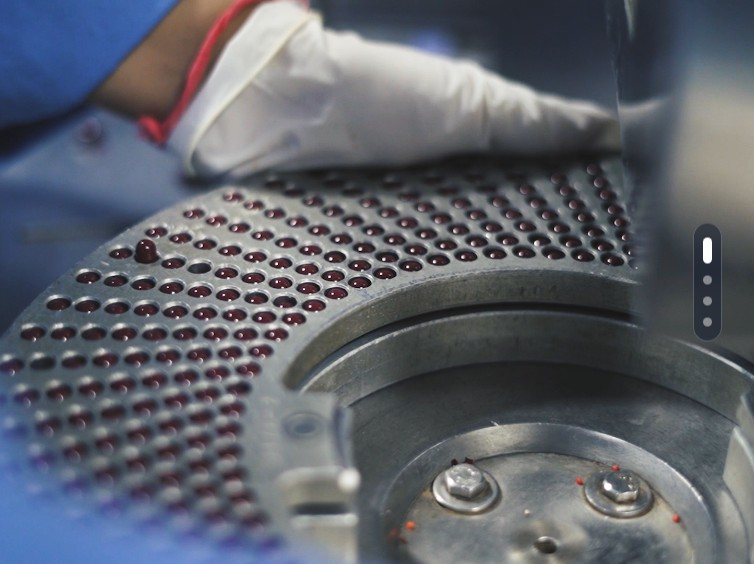
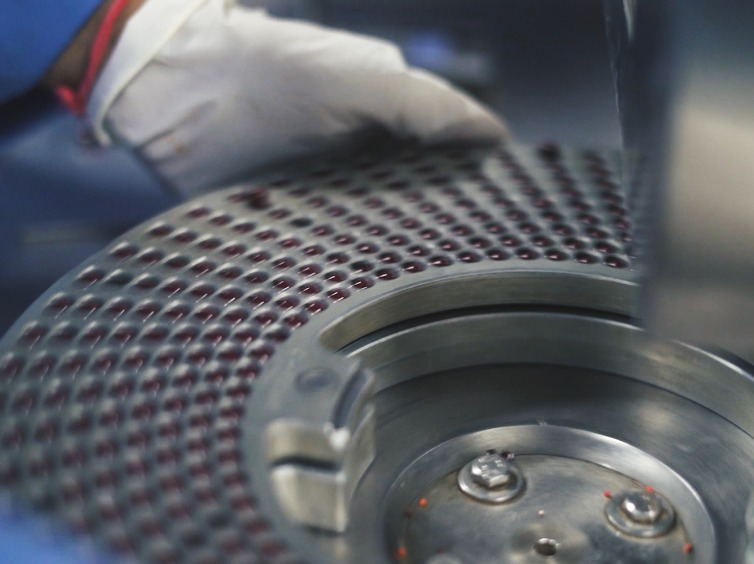
first commit

diff --git a/index.html b/index.html
@@ -2483,66 +2483,8 @@
           <!-- ================= Part 1: Text Column (Slides Downwards) ================= -->
           <div class="split-hero__text-col" id="heroTextCol">
 
-            <!-- Scene 1: Gelatin -->
+            <!-- Scene 1: HPMC Vegetarian Capsules -->
             <article class="split-hero__pane is-active" data-scene="0">
-              <div class="split-hero__meta">
-                <span>EMPTY CAPSULES</span>
-                <span class="meta-dot"></span>
-                <span>TSE/BSE FREE</span>
-                <span class="meta-dot"></span>
-                <span>EDQM DMF</span>
-                <span class="meta-dot"></span>
-                <span>WHO-cGMP</span>
-              </div>
-              <h2 class="split-hero__title">
-                HPMC / Veg Capsules
-              </h2>
-              <p class="split-hero__desc">
-                Naturally derived Hypromellose capsules tailored for moisture-sensitive APIs, herbal formulations,
-                hygroscopic powders, and global clean-label nutraceutical brands.
-              </p>
-              <div class="split-hero__actions">
-                <a class="btn-black-pill" href="#manufacturingSection">
-                  <span class="btn-anim__text">
-                    <span class="btn-anim__text-track">
-                      <span class="btn-anim__text-item">KNOW MORE</span>
-                      <span class="btn-anim__text-item btn-anim__text-clone" aria-hidden="true">KNOW MORE</span>
-                    </span>
-                  </span>
-                  <span class="btn-anim__icon">
-                    <span class="btn-anim__icon-track">
-                      <svg class="btn-anim__icon-item" width="12" height="12" viewBox="0 0 12 12" fill="none"
-                        stroke="currentColor" stroke-width="2.4" stroke-linecap="round" stroke-linejoin="round"
-                        aria-hidden="true">
-                        <path d="M4 2L8 6L4 10" />
-                      </svg>
-                      <svg class="btn-anim__icon-item btn-anim__icon-clone" width="12" height="12" viewBox="0 0 12 12"
-                        fill="none" stroke="currentColor" stroke-width="2.4" stroke-linecap="round"
-                        stroke-linejoin="round" aria-hidden="true">
-                        <path d="M4 2L8 6L4 10" />
-                      </svg>
-                    </span>
-                  </span>
-                </a>
-                <!-- <a class="btn-outline-pill" href="epl-products.html">
-                  <span class="btn-anim__text">
-                    <span class="btn-anim__text-track">
-                      <span class="btn-anim__text-item">View Gelatin Specs</span>
-                      <span class="btn-anim__text-item btn-anim__text-clone" aria-hidden="true">View Gelatin Specs</span>
-                    </span>
-                  </span>
-                  <span class="btn-anim__icon">
-                    <span class="btn-anim__icon-track">
-                      <svg class="btn-anim__icon-item" width="12" height="12" viewBox="0 0 12 12" fill="none" stroke="currentColor" stroke-width="2.4" stroke-linecap="round" stroke-linejoin="round" aria-hidden="true"><path d="M4 2L8 6L4 10"/></svg>
-                      <svg class="btn-anim__icon-item btn-anim__icon-clone" width="12" height="12" viewBox="0 0 12 12" fill="none" stroke="currentColor" stroke-width="2.4" stroke-linecap="round" stroke-linejoin="round" aria-hidden="true"><path d="M4 2L8 6L4 10"/></svg>
-                    </span>
-                  </span>
-                </a> -->
-              </div>
-            </article>
-
-            <!-- Scene 2: HPMC -->
-            <article class="split-hero__pane is-upcoming" data-scene="1">
               <div class="split-hero__meta">
                 <span>PLANT-DERIVED</span>
                 <span class="meta-dot"></span>
@@ -2553,13 +2495,12 @@
                 <span>HALAL &amp; KOSHER</span>
               </div>
               <h1 class="split-hero__title">
-                Empty Hard Gelatin Capsules
+                HPMC / Veg Capsules
               </h1>
               <p class="split-hero__desc">
-                High-quality TSE/BSE-free Gelatin capsules engineered for high-speed automated filling machines,
-                delivering minimal rejections, tight locking tolerances, and maximum pharmaceutical output.
+                Naturally derived Hypromellose capsules tailored for moisture-sensitive APIs, herbal formulations,
+                hygroscopic powders, and global clean-label nutraceutical brands.
               </p>
-
               <div class="split-hero__actions">
                 <a class="btn-black-pill" href="epl-products.html">
                   <span class="btn-anim__text">
@@ -2583,20 +2524,51 @@
                     </span>
                   </span>
                 </a>
-                <!-- <a class="btn-outline-pill" href="#manufacturingSection">
+              </div>
+            </article>
+
+            <!-- Scene 2: Empty Hard Gelatin Capsules -->
+            <article class="split-hero__pane is-upcoming" data-scene="1">
+              <div class="split-hero__meta">
+                <span>EMPTY CAPSULES</span>
+                <span class="meta-dot"></span>
+                <span>TSE/BSE FREE</span>
+                <span class="meta-dot"></span>
+                <span>EDQM DMF</span>
+                <span class="meta-dot"></span>
+                <span>WHO-cGMP</span>
+              </div>
+              <h2 class="split-hero__title">
+                Empty Hard Gelatin Capsules
+              </h2>
+              <p class="split-hero__desc">
+                High-quality TSE/BSE-free Gelatin capsules engineered for high-speed automated filling machines,
+                delivering minimal rejections, tight locking tolerances, and maximum pharmaceutical output.
+              </p>
+
+              <div class="split-hero__actions">
+                <a class="btn-black-pill" href="epl-products.html">
                   <span class="btn-anim__text">
                     <span class="btn-anim__text-track">
-                      <span class="btn-anim__text-item">Why Choose Us</span>
-                      <span class="btn-anim__text-item btn-anim__text-clone" aria-hidden="true">Why Choose Us</span>
+                      <span class="btn-anim__text-item">EXPLORE GELATIN</span>
+                      <span class="btn-anim__text-item btn-anim__text-clone" aria-hidden="true">EXPLORE GELATIN</span>
                     </span>
                   </span>
                   <span class="btn-anim__icon">
                     <span class="btn-anim__icon-track">
-                      <svg class="btn-anim__icon-item" width="12" height="12" viewBox="0 0 12 12" fill="none" stroke="currentColor" stroke-width="2.4" stroke-linecap="round" stroke-linejoin="round" aria-hidden="true"><path d="M4 2L8 6L4 10"/></svg>
-                      <svg class="btn-anim__icon-item btn-anim__icon-clone" width="12" height="12" viewBox="0 0 12 12" fill="none" stroke="currentColor" stroke-width="2.4" stroke-linecap="round" stroke-linejoin="round" aria-hidden="true"><path d="M4 2L8 6L4 10"/></svg>
+                      <svg class="btn-anim__icon-item" width="12" height="12" viewBox="0 0 12 12" fill="none"
+                        stroke="currentColor" stroke-width="2.4" stroke-linecap="round" stroke-linejoin="round"
+                        aria-hidden="true">
+                        <path d="M4 2L8 6L4 10" />
+                      </svg>
+                      <svg class="btn-anim__icon-item btn-anim__icon-clone" width="12" height="12" viewBox="0 0 12 12"
+                        fill="none" stroke="currentColor" stroke-width="2.4" stroke-linecap="round"
+                        stroke-linejoin="round" aria-hidden="true">
+                        <path d="M4 2L8 6L4 10" />
+                      </svg>
                     </span>
                   </span>
-                </a> -->
+                </a>
               </div>
             </article>
 
@@ -2705,17 +2677,17 @@
           <div class="split-hero__media-col">
             <div class="split-hero__card" id="heroMediaCard">
 
-              <!-- Image 1: Gelatin Cleanroom Production -->
+              <!-- Image 1: HPMC Vegetarian Capsules -->
               <div class="split-hero__img-item is-active" data-scene="0">
-                <video class="split-hero__img" autoplay muted loop playsinline preload="auto" poster="images/banners/bannerawat1.png">
+                <video class="split-hero__img" autoplay muted loop playsinline webkit-playsinline preload="auto" poster="images/banners/hpmc1-poster.jpg" src="images/banners/hpmc1.mp4">
                   <source src="images/banners/hpmc1.mp4" type="video/mp4">
-                  <img src="images/banners/bannerawat1.png"
-                    alt="Erawat cleanroom automated gelatin capsule production line" class="split-hero__img"
+                  <img src="images/banners/hpmc1-poster.jpg"
+                    alt="Erawat HPMC vegetarian capsule production" class="split-hero__img"
                     loading="eager" width="1280" height="820">
                 </video>
                 <div class="split-hero__img-badge">
                   <span class="split-hero__img-step">01 / 04</span>
-                  <span class="split-hero__img-caption">Hard Gelatin Manufacturing</span>
+                  <span class="split-hero__img-caption">HPMC Vegetarian Capsules</span>
                 </div>
               </div>
 
@@ -2759,10 +2731,11 @@
               <!-- Slide Pagination (Right-Side Dots) -->
               <div class="split-hero__dots" role="tablist" aria-label="Hero slider pagination">
                 <button type="button" class="split-hero__dot is-active" role="tab" aria-selected="true"
-                  aria-label="Slide 1: Empty Hard Gelatin Capsules" title="Empty Hard Gelatin Capsules"
+                  aria-label="Slide 1: HPMC / Veg Capsules" title="HPMC / Veg Capsules"
                   data-scene="0"></button>
                 <button type="button" class="split-hero__dot" role="tab" aria-selected="false"
-                  aria-label="Slide 2: HPMC / Veg Capsules" title="HPMC / Veg Capsules" data-scene="1"></button>
+                  aria-label="Slide 2: Empty Hard Gelatin Capsules" title="Empty Hard Gelatin Capsules"
+                  data-scene="1"></button>
                 <button type="button" class="split-hero__dot" role="tab" aria-selected="false"
                   aria-label="Slide 3: Precision Sizing & Colors" title="Precision Sizing & Custom Colors"
                   data-scene="2"></button>
@@ -3059,7 +3032,12 @@
             var v = item.querySelector('video');
             if (v) {
               if (i === index) {
-                v.play().catch(function () {});
+                v.muted = true;
+                v.defaultMuted = true;
+                var playPromise = v.play();
+                if (playPromise !== undefined) {
+                  playPromise.catch(function () {});
+                }
               } else {
                 v.pause();
               }
